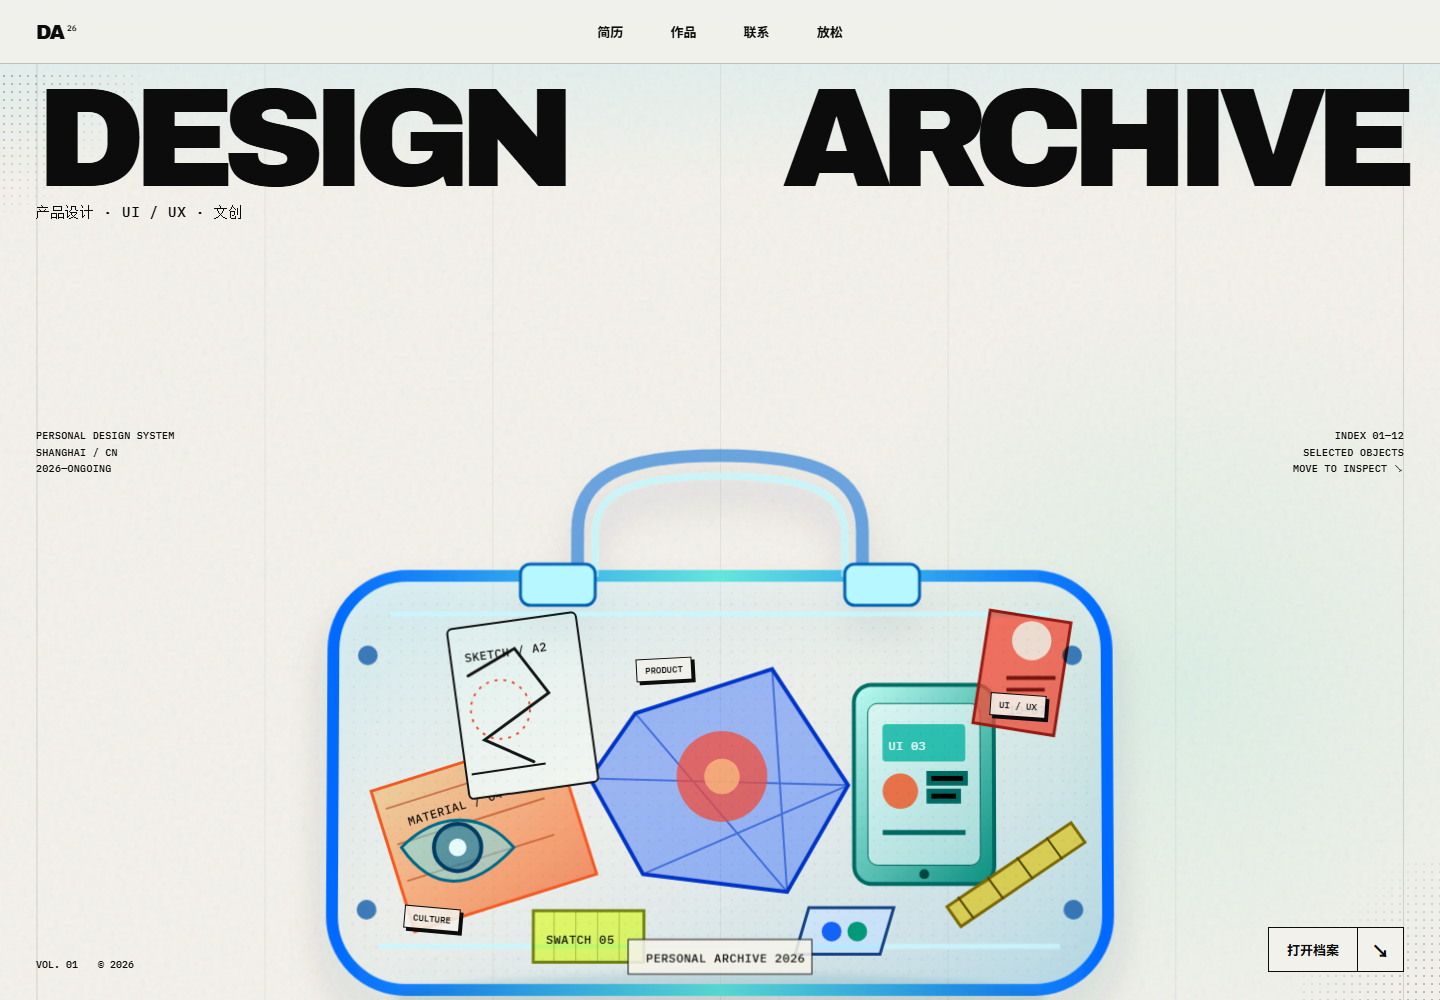
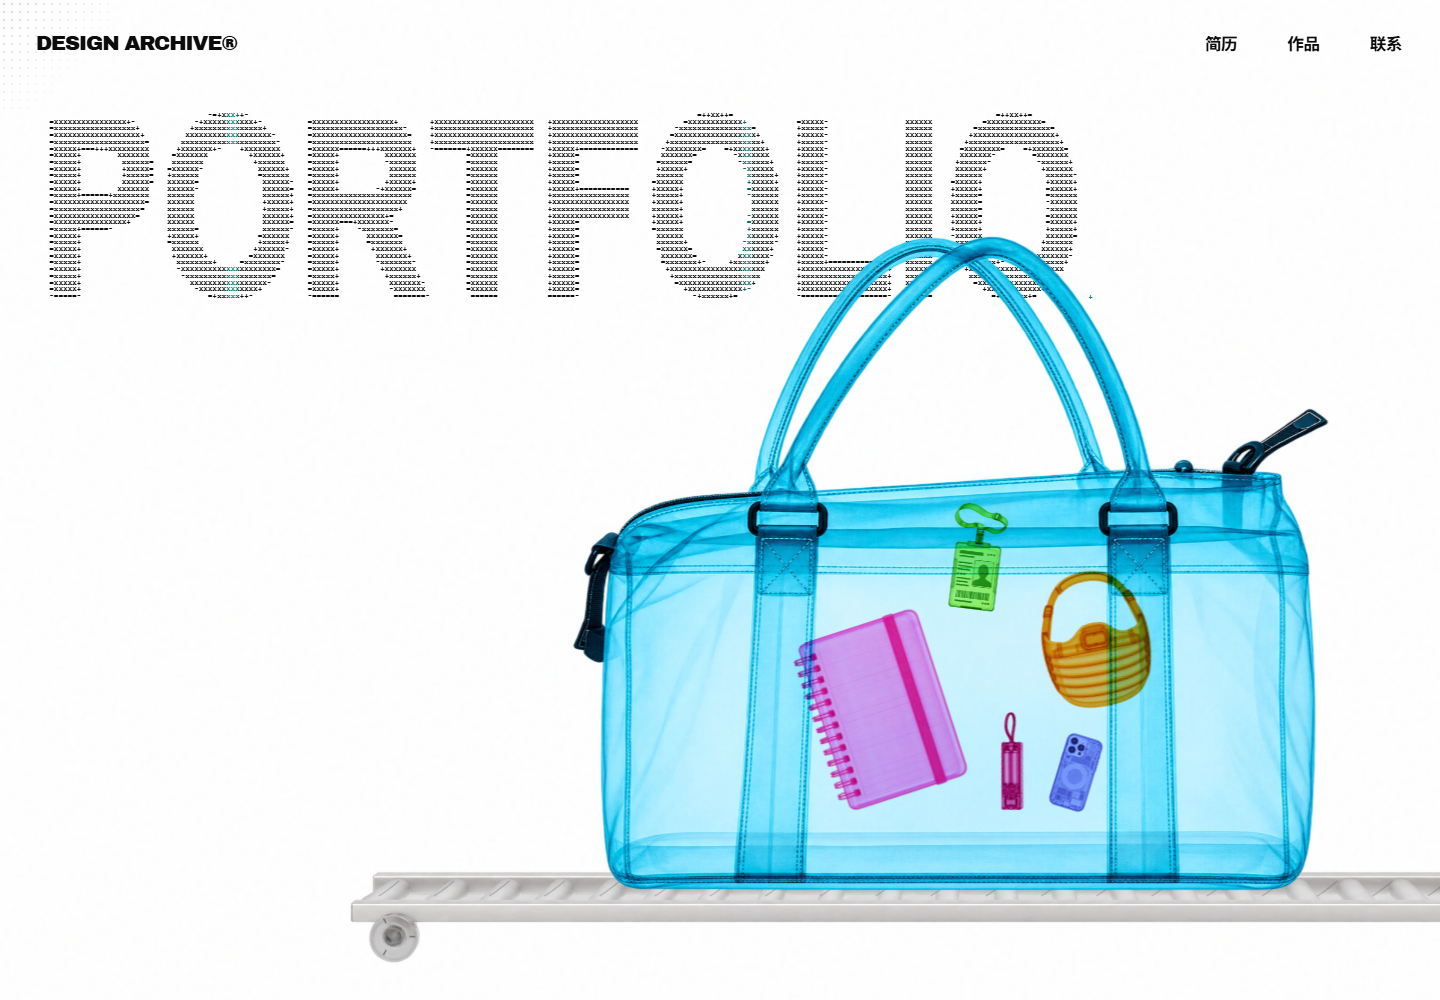
docs: sync portfolio progress and homepage preview

diff --git a/README.md b/README.md
@@ -8,20 +8,22 @@
 
 状态：`Prototype / In Progress`
 
-- [x] 实验性首页视觉与固定导航
-- [x] X-Ray 安检包主视觉与分层透明素材
-- [x] 横向安检传送带、扫描噪点和 Halftone 背景
-- [x] 全屏作品索引框架与 Placeholder 项目
+以下清单和封面记录当前本地原型的进度，交互验收仍在进行。
+
+- [x] 首页符号矩阵 `PORTFOLIO` 标题与固定「简历 / 作品 / 联系」导航
+- [x] 透明 X-Ray 安检包与五件可拖放物品，支持落底和碰撞
+- [x] 侧视传送带同步驱动滚轴、轮子和包体进场，包体制动带动物品惯性
+- [x] 连续滚动串联封面、旋转三维人物、身份信息、三栏简介与作品目录
+- [x] 五条占位作品目录，支持按进入方向翻出符号跑马条
 - [x] 简历 Archive / Editorial 框架
 - [x] 极简联系页框架
-- [x] 桌面端轻量视差、Hover 与 Reduced Motion 适配
-- [ ] 首页桌面端最终视觉确认
-- [ ] 移动端细节与多尺寸视觉校验
-- [ ] 作品索引预览系统完善
+- [x] 标题、传送带和目录提供减少动态效果模式
+- [ ] 首页最终构图、包体接触与拖放手感确认
+- [ ] 人物过场、简介滚动和目录交互的跨设备验证
 - [ ] 真实项目内容与项目详情页
 - [ ] 正式域名、性能优化与上线发布
 
-![当前首页预览](./cover-preview.png)
+![当前本地首页实拍：符号矩阵标题、透明 X-Ray 安检包和侧视传送带](./cover-preview.png)
 
 ## 设计主题
 
@@ -39,7 +41,8 @@
 
 - HTML5：语义化页面、Dialog 档案面板与可访问性结构
 - CSS3：响应式网格、扫描纹理、Halftone、排版和动效
-- Vanilla JavaScript：导航切换、视差、作品 Hover、上海时间显示
+- Vanilla JavaScript：符号矩阵、传送带与拖放物理、滚动过场及作品目录交互
+- Three.js：旋转三维人物，皮相随滚动进度显隐
 - PNG 透明素材：X-Ray 包体与内部物件分层
 - Git / GitHub：版本管理、开发记录与展示
 - Codex：协助代码维护、文档整理、检查与自动化
@@ -58,7 +61,7 @@ python -m http.server 8000
 
 ## 每日记录
 
-每天的开发内容、文件变更、验证结果与下一步会记录在 [`worklog/`](./worklog/) 中。自动整理只记录和提交项目内的工作文件，不上传缓存、临时文件或本地配置。
+每天的开发内容、文件变更、验证结果与下一步会记录在 [`worklog/`](./worklog/) 中。自动整理按上次成功同步以来的变更核对进度，排除缓存、临时文件和本地配置。
 
 ## 内容状态
 

diff --git a/worklog/2026-11-23.md b/worklog/2026-11-23.md
@@ -1,0 +1,27 @@
+# 2026-11-23 开发记录
+
+## 今日目标
+
+补齐 GitHub 自 11 月 18 日以来遗漏的原型进度与首屏预览。
+
+## 完成内容
+
+- 核对本地实际实现，记录符号标题、X-Ray 安检包拖放与传送带进场、三维人物和身份过场、三栏简介及五条占位作品目录。
+- 更新 README 的开发状态和技术说明，将原型实现与待验收项分别列出。
+- 调整每日整理规则，从上次成功同步的进度核对待发布变更，跨日改动也纳入检查。
+
+## 变更文件
+
+- `README.md`
+- `cover-preview.png`
+- `worklog/2026-11-23.md`
+
+## 验证结果
+
+- 已核对远端 README 与本地页面结构。当前页面加载的六个 JavaScript 文件均通过 `node --check`。
+- 首屏预览来自本地原型的 Chrome 桌面截图。拖放、滚动和跨设备体验仍待运行态验收。
+
+## 待确认与下一步
+
+- 本地人物资料含姓名与照片引用，随网站源文件公开前核对可发布范围。
+- 验证传送带制动与物品碰撞、人物过场的正反向滚动，以及移动端与键盘操作。
